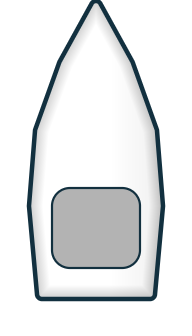
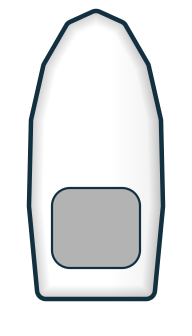
Speedboat: a full, rounded bow instead of a sharp thin point

Changed region(s): [[0.125, 0.0, 0.875, 0.5952], [0.7812, 0.7143, 0.8438, 0.8929], [0.1562, 0.7143, 0.2188, 0.8929]]

diff --git a/Assets/Scripts/Editor/WaterArt.Boats.cs b/Assets/Scripts/Editor/WaterArt.Boats.cs
@@ -43,8 +43,8 @@ namespace SomeGame.EditorTools
 
         // A long, slim racing hull: a narrow transom, widest just behind the middle, a long fine bow to a point.
         static float SpeedHullSdf(float x, float y) =>
-            Polygon(x, y, new[] { new Vector2(42, 42), new Vector2(150, 42), new Vector2(158, 130), new Vector2(152, 205), new Vector2(128, 272), new Vector2(96, 330),
-                                  new Vector2(64, 272), new Vector2(40, 205), new Vector2(34, 130) }) - 5f;
+            Polygon(x, y, new[] { new Vector2(46, 46), new Vector2(146, 46), new Vector2(154, 130), new Vector2(152, 215), new Vector2(140, 268), new Vector2(118, 306),
+                                  new Vector2(96, 316), new Vector2(74, 306), new Vector2(52, 268), new Vector2(40, 215), new Vector2(38, 130) }) - 9f; // a full, rounded bow
 
         static Color SpeedHull(float x, float y)
         {
@@ -69,7 +69,7 @@ namespace SomeGame.EditorTools
             c = Over(c, White(0.95f), Fill(stripe) * Fill(hull + 10f));
             c = Over(c, White(0.85f), Fill(Shell(hull + 6f, 1.6f)) * Mathf.Clamp01((y - 130f) / 30f));
             // Two cleats near the bow (the decals have the foredeck).
-            foreach (float cx in new[] { 82f, 110f }) c = Over(c, Hex("C9D3DC"), Fill(RoundRect(x, y, cx, 280, 2.6f, 6, 1.5f)));
+            foreach (float cx in new[] { 80f, 112f }) c = Over(c, Hex("C9D3DC"), Fill(RoundRect(x, y, cx, 286, 2.6f, 6, 1.5f)));
             // A low wraparound windscreen in front of the cockpit.
             float screen = Mathf.Max(Shell(Circle(x, y, 96, 110, 52), 5.5f), 132f - y);
             c = Over(c, Glass, Fill(screen));
